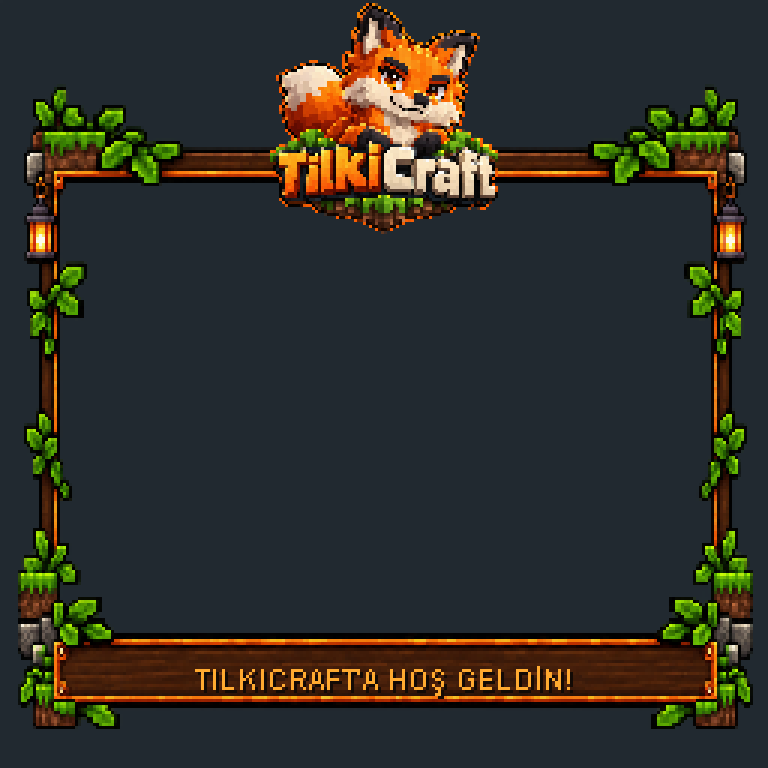
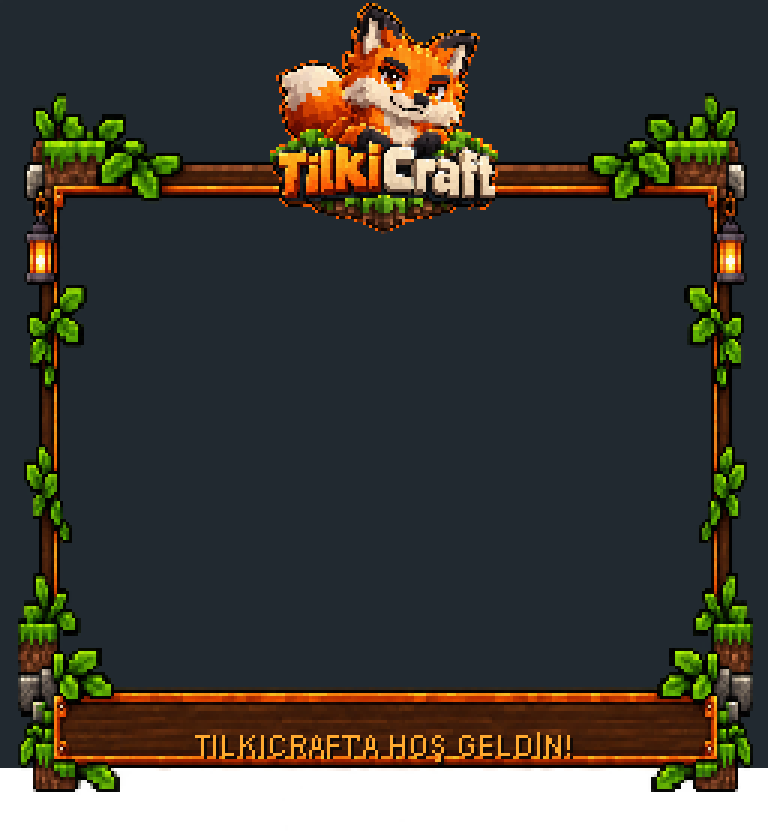
Scale ESC and TAB interface frames

diff --git a/tools/BuildTabFrame.java b/tools/BuildTabFrame.java
@@ -1,0 +1,84 @@
+import com.google.gson.*;
+import java.awt.*;
+import java.awt.image.BufferedImage;
+import java.nio.file.*;
+import java.security.MessageDigest;
+import java.util.*;
+import java.util.zip.*;
+import javax.imageio.ImageIO;
+
+/** Builds sparse, player-count-aware TAB frames from the ESC artwork. */
+class BuildTabFrame {
+    static final Path ROOT=Path.of("resourcepack");
+    static final Path TEX=ROOT.resolve("assets/tilkiinterface/textures/font/tab_frame");
+    static final JsonArray PROVIDERS=new JsonArray();
+    static final Properties LAYOUTS=new Properties();
+    static int next=0xf1000, textureIndex=0;
+
+    static void patch(Graphics2D g,BufferedImage source,int dx1,int dy1,int dx2,int dy2,int sx1,int sy1,int sx2,int sy2) {
+        g.drawImage(source,dx1,dy1,dx2,dy2,sx1,sy1,sx2,sy2,null);
+    }
+    static BufferedImage compose(BufferedImage source,BufferedImage logo,int width,int rows) {
+        int height=76+rows*9, smx=190, smy=220, dmx=28, dmy=38;
+        BufferedImage out=new BufferedImage(width,height,BufferedImage.TYPE_INT_ARGB);
+        Graphics2D g=out.createGraphics();
+        g.setRenderingHint(RenderingHints.KEY_INTERPOLATION,RenderingHints.VALUE_INTERPOLATION_NEAREST_NEIGHBOR);
+        int sw=source.getWidth(),sh=source.getHeight();
+        patch(g,source,0,0,dmx,dmy,0,0,smx,smy);
+        patch(g,source,dmx,0,width-dmx,dmy,smx,0,sw-smx,smy);
+        patch(g,source,width-dmx,0,width,dmy,sw-smx,0,sw,smy);
+        patch(g,source,0,dmy,dmx,height-dmy,0,smy,smx,sh-smy);
+        patch(g,source,width-dmx,dmy,width,height-dmy,sw-smx,smy,sw,sh-smy);
+        patch(g,source,0,height-dmy,dmx,height,0,sh-smy,smx,sh);
+        patch(g,source,dmx,height-dmy,width-dmx,height,smx,sh-smy,sw-smx,sh);
+        patch(g,source,width-dmx,height-dmy,width,height,sw-smx,sh-smy,sw,sh);
+        g.setComposite(AlphaComposite.Clear);g.fillRect(dmx,dmy,width-dmx*2,height-dmy*2);g.setComposite(AlphaComposite.SrcOver);
+        g.drawImage(logo,(width-58)/2,-2,58,58,null);
+        g.dispose();
+        // A compact pixel palette keeps the single resource-pack download small.
+        for(int y=0;y<height;y++)for(int x=0;x<width;x++) {
+            int pixel=out.getRGB(x,y),a=pixel>>>24;
+            if(a<32)out.setRGB(x,y,0);
+            else {int r=(pixel>>16)&255,green=(pixel>>8)&255,b=pixel&255;out.setRGB(x,y,0xff000000|((r>>4)<<20)|((green>>4)<<12)|((b>>4)<<4));}
+        }
+        return out;
+    }
+    static String addLayout(BufferedImage image,String key) throws Exception {
+        StringBuilder text=new StringBuilder();
+        for(int x=0;x<image.getWidth();x+=256) {
+            int width=Math.min(256,image.getWidth()-x);
+            BufferedImage tile=image.getSubimage(x,0,width,image.getHeight());
+            BufferedImage copy=new BufferedImage(width,image.getHeight(),BufferedImage.TYPE_INT_ARGB);
+            copy.getGraphics().drawImage(tile,0,0,null);copy.setRGB(width-1,0,0x01ffffff);
+            String file="tab_frame/frame_"+(textureIndex++)+".png";ImageIO.write(copy,"png",ROOT.resolve("assets/tilkiinterface/textures/font").resolve(file).toFile());
+            String glyph=new String(Character.toChars(next++));
+            JsonObject provider=new JsonObject();provider.addProperty("type","bitmap");provider.addProperty("file","tilkiinterface:font/"+file);
+            provider.addProperty("height",copy.getHeight());provider.addProperty("ascent",52);
+            JsonArray chars=new JsonArray();chars.add(glyph);provider.add("chars",chars);PROVIDERS.add(provider);
+            text.append(glyph).append('\uEA08');
+        }
+        LAYOUTS.setProperty(key,text.toString());return text.toString();
+    }
+    public static void main(String[] args) throws Exception {
+        if(args.length!=2)throw new IllegalArgumentException("Frame source and TilkiCraft logo PNG required");
+        BufferedImage source=ImageIO.read(Path.of(args[0]).toFile()),logo=ImageIO.read(Path.of(args[1]).toFile());
+        if(source==null||logo==null)throw new IllegalArgumentException("Invalid PNG");Files.createDirectories(TEX);
+        try(var old=Files.list(TEX)){for(Path file:old.toList())Files.delete(file);}
+        for(int players=1;players<=80;players++) {
+            int columns=(players+19)/20,rows=(players+columns-1)/columns,width=128+columns*128;
+            String key=columns+"."+rows;if(!LAYOUTS.containsKey(key))addLayout(compose(source,logo,width,rows),key);
+        }
+        Path definition=ROOT.resolve("assets/tilkiinterface/font/ui.json");JsonObject font=JsonParser.parseString(Files.readString(definition)).getAsJsonObject();JsonArray kept=new JsonArray();
+        for(JsonElement element:font.getAsJsonArray("providers")) {
+            JsonObject provider=element.getAsJsonObject();String file=provider.has("file")?provider.get("file").getAsString():"";
+            if(!file.contains("/tab_frame/"))kept.add(provider);
+        }
+        kept.addAll(PROVIDERS);font.add("providers",kept);Files.writeString(definition,font.toString());
+        try(var output=Files.newOutputStream(Path.of("src/main/resources/tab-frame-layouts.properties"))){LAYOUTS.store(output,"TAB frame layouts by columns and rows");}
+        Path zip=Path.of("dist/TilkiInterface-ResourcePack.zip");
+        try(var out=new ZipOutputStream(Files.newOutputStream(zip));var files=Files.walk(ROOT)){for(Path file:files.filter(Files::isRegularFile).sorted().toList()){ZipEntry entry=new ZipEntry(ROOT.relativize(file).toString().replace('\\','/'));entry.setTime(0);out.putNextEntry(entry);Files.copy(file,out);out.closeEntry();}}
+        String hash=HexFormat.of().formatHex(MessageDigest.getInstance("SHA-1").digest(Files.readAllBytes(zip)));Files.writeString(Path.of("dist/resourcepack-sha1.txt"),hash+"\n");
+        BufferedImage preview=compose(source,logo,384,12);ImageIO.write(preview,"png",Path.of("art/tab-frame-preview.png").toFile());
+        System.out.println("TAB layouts: "+LAYOUTS.size()+"; textures: "+textureIndex+"; SHA1: "+hash+"; "+Files.size(zip)+" bytes");
+    }
+}

diff --git a/tools/BuildEscFrame.java b/tools/BuildEscFrame.java
@@ -11,12 +11,14 @@ import javax.imageio.ImageIO;
 class BuildEscFrame {
     static final Path ROOT = Path.of("resourcepack");
     static final String GLYPH = "\uEA03";
+    static final String BOTTOM_GLYPH = "\uEA06";
+    static final String REWIND_GLYPH = "\uEA0A";
 
     static BufferedImage frame(Path artwork, Path logoPath) throws Exception {
         BufferedImage source = ImageIO.read(artwork.toFile());
         BufferedImage logo = ImageIO.read(logoPath.toFile());
         if (source == null || logo == null) throw new IllegalArgumentException("Invalid frame or logo PNG");
-        BufferedImage result = new BufferedImage(256, 256, BufferedImage.TYPE_INT_ARGB);
+        BufferedImage result = new BufferedImage(256, 278, BufferedImage.TYPE_INT_ARGB);
         // Keep a 212-pixel clear center for the native 204-pixel-wide pause buttons.
         // Compress only the decorative side margins of the generated square artwork.
         int left = source.getWidth() * 14 / 100;
@@ -39,8 +41,8 @@ class BuildEscFrame {
         String welcome = "TILKICRAFT'A HOŞ GELDİN!";
         FontMetrics metrics = g.getFontMetrics();
         int tx = (256 - metrics.stringWidth(welcome)) / 2;
-        g.setColor(new Color(19, 10, 5));g.drawString(welcome, tx+1, 231);
-        g.setColor(new Color(255, 170, 48));g.drawString(welcome, tx, 230);
+        g.setColor(new Color(19, 10, 5));g.drawString(welcome, tx+1, 253);
+        g.setColor(new Color(255, 170, 48));g.drawString(welcome, tx, 252);
         g.dispose();
         // Force full-cell glyph width without adding visible side pixels.
         result.setRGB(0, 0, 0x01ffffff);
@@ -51,15 +53,21 @@ class BuildEscFrame {
     public static void main(String[] args) throws Exception {
         if (args.length != 2) throw new IllegalArgumentException("Frame source and TilkiCraft logo PNG required");
         Path texture = ROOT.resolve("assets/tilkiinterface/textures/font/esc_frame.png");
+        Path bottomTexture = ROOT.resolve("assets/tilkiinterface/textures/font/esc_frame_bottom.png");
         Files.createDirectories(texture.getParent());
         BufferedImage image = frame(Path.of(args[0]), Path.of(args[1]));
-        ImageIO.write(image, "png", texture.toFile());
+        BufferedImage top=new BufferedImage(256,256,BufferedImage.TYPE_INT_ARGB),bottom=new BufferedImage(256,22,BufferedImage.TYPE_INT_ARGB);
+        Graphics2D topGraphics=top.createGraphics();topGraphics.drawImage(image,0,0,null);topGraphics.dispose();
+        Graphics2D bottomGraphics=bottom.createGraphics();bottomGraphics.drawImage(image,0,0,256,22,0,256,256,278,null);bottomGraphics.dispose();
+        top.setRGB(255,0,0x01ffffff);bottom.setRGB(255,0,0x01ffffff);
+        ImageIO.write(top, "png", texture.toFile());ImageIO.write(bottom,"png",bottomTexture.toFile());
         Path definition = ROOT.resolve("assets/tilkiinterface/font/ui.json");
         JsonObject font = JsonParser.parseString(Files.readString(definition)).getAsJsonObject();
         JsonArray providers = new JsonArray();
         for (JsonElement entry : font.getAsJsonArray("providers")) {
             JsonObject provider = entry.getAsJsonObject();
-            if (provider.has("file") && provider.get("file").getAsString().equals("tilkiinterface:font/esc_frame.png")) continue;
+            if (provider.has("file") && provider.get("file").getAsString().contains("esc_frame")) continue;
+            if(provider.get("type").getAsString().equals("space") && provider.getAsJsonObject("advances").has(REWIND_GLYPH))provider.getAsJsonObject("advances").remove(REWIND_GLYPH);
             providers.add(entry);
         }
         JsonObject frameProvider = new JsonObject();
@@ -69,12 +77,15 @@ class BuildEscFrame {
         frameProvider.addProperty("ascent", 44);
         JsonArray chars = new JsonArray(); chars.add(GLYPH); frameProvider.add("chars", chars);
         providers.add(frameProvider);
+        JsonObject bottomProvider=new JsonObject();bottomProvider.addProperty("type","bitmap");bottomProvider.addProperty("file","tilkiinterface:font/esc_frame_bottom.png");bottomProvider.addProperty("height",22);bottomProvider.addProperty("ascent",-212);
+        JsonArray bottomChars=new JsonArray();bottomChars.add(BOTTOM_GLYPH);bottomProvider.add("chars",bottomChars);providers.add(bottomProvider);
+        JsonObject rewindProvider=new JsonObject();rewindProvider.addProperty("type","space");JsonObject advances=new JsonObject();advances.addProperty(REWIND_GLYPH,-257);rewindProvider.add("advances",advances);providers.add(rewindProvider);
         font.add("providers", providers);
         Files.writeString(definition, font.toString());
         for (String lang : new String[]{"tr_tr", "en_us", "en_gb"}) {
             Path path = ROOT.resolve("assets/minecraft/lang/"+lang+".json");
             JsonObject translation = JsonParser.parseString(Files.readString(path)).getAsJsonObject();
-            translation.addProperty("menu.game", GLYPH);
+            translation.addProperty("menu.game", GLYPH+REWIND_GLYPH+BOTTOM_GLYPH);
             Files.writeString(path, translation.toString());
         }
         Path zip = Path.of("dist/TilkiInterface-ResourcePack.zip");
@@ -87,10 +98,10 @@ class BuildEscFrame {
         }
         String hash = HexFormat.of().formatHex(MessageDigest.getInstance("SHA-1").digest(Files.readAllBytes(zip)));
         Files.writeString(Path.of("dist/resourcepack-sha1.txt"), hash+"\n");
-        BufferedImage preview = new BufferedImage(768, 768, BufferedImage.TYPE_INT_ARGB);
+        BufferedImage preview = new BufferedImage(768, 834, BufferedImage.TYPE_INT_ARGB);
         Graphics2D g = preview.createGraphics();
         g.setColor(new Color(33, 41, 48)); g.fillRect(0, 0, 768, 768);
-        g.drawImage(image, 0, 0, 768, 768, null);
+        g.drawImage(image, 0, 0, 768, 834, null);
         g.dispose();
         ImageIO.write(preview, "png", Path.of("art/esc-frame-preview.png").toFile());
         System.out.println("ESC frame pack SHA1: "+hash+"; "+Files.size(zip)+" bytes");

diff --git a/src/main/java/com/tilkicraft/ui/TilkiInterface.java b/src/main/java/com/tilkicraft/ui/TilkiInterface.java
@@ -20,6 +20,7 @@ public final class TilkiInterface extends JavaPlugin implements Listener, Comman
     private static final DateTimeFormatter DATE = DateTimeFormatter.ofPattern("dd/MM/yy HH:mm").withZone(ZoneId.of("Europe/Istanbul"));
     private final Map<UUID, Panel> panels = new HashMap<>();
     private final Set<UUID> ready = new HashSet<>(), hidden = new HashSet<>();
+    private final Properties tabFrameLayouts = new Properties();
     private Object authApi, economy, chat;
     private Method auth, unrestricted, placeholder, balance, rankPrefix, primaryGroup;
     private String url;
@@ -64,6 +65,10 @@ public final class TilkiInterface extends JavaPlugin implements Listener, Comman
     @Override public void onEnable() {
         migrateLegacyConfig();
         saveDefaultConfig();
+        try(var input=getResource("tab-frame-layouts.properties")) {
+            if(input==null)throw new IOException("missing resource");
+            tabFrameLayouts.load(input);
+        } catch(IOException ex) { getLogger().severe("TAB frame layouts could not be loaded: "+ex.getMessage()); }
         bindHooks();
         Bukkit.getScheduler().runTask(this,this::bindHooks);
         readPack();
@@ -133,6 +138,13 @@ public final class TilkiInterface extends JavaPlugin implements Listener, Comman
             getConfig().set("sidebar.frame",null);
             getConfig().set("layout.logos-only-v6",true);saveConfig();
         }
+        if(!getConfig().getBoolean("layout.tab-frame-v7",false)) {
+            getConfig().set("layout.previous-tab-header-v7",getConfig().getStringList("tab.header"));
+            getConfig().set("layout.previous-tab-footer-v7",getConfig().getStringList("tab.footer"));
+            getConfig().set("tab.header",Arrays.asList(FrameGeometry.HEADER.split("\n",-1)));
+            getConfig().set("tab.footer",Arrays.asList(FrameGeometry.FOOTER.split("\n",-1)));
+            getConfig().set("layout.tab-frame-v7",true);saveConfig();
+        }
         if (!getConfig().getBoolean("layout.compact-v2",false)) {
             List<String> lines=new ArrayList<>(getConfig().getStringList("sidebar.lines"));
             lines.removeIf(line->line.contains("{kills}") || line.contains("{deaths}"));
@@ -146,9 +158,9 @@ public final class TilkiInterface extends JavaPlugin implements Listener, Comman
             getConfig().set("sidebar.lines",lines); getConfig().set("layout.compact-v2",true); saveConfig();
         }
         String previousUrl=getConfig().getString("pack.url","");
-        if (previousUrl.startsWith("https://github.com/ardaacala/TilkiInterface/releases/download/") && !previousUrl.contains("/v1.4.4/")) {
-            getConfig().set("pack.url","https://github.com/ardaacala/TilkiInterface/releases/download/v1.4.4/TilkiInterface-ResourcePack.zip");
-            getConfig().set("pack.sha1","11d1c862803c42b3b50e4b3df10516ce099cd9e4"); saveConfig();
+        if (previousUrl.startsWith("https://github.com/ardaacala/TilkiInterface/releases/download/") && !previousUrl.contains("/v1.4.5/")) {
+            getConfig().set("pack.url","https://github.com/ardaacala/TilkiInterface/releases/download/v1.4.5/TilkiInterface-ResourcePack.zip");
+            getConfig().set("pack.sha1","95ae8c559b1d9314ae30102c1036a5b3de1d24ee"); saveConfig();
         }
         url=getConfig().getString("pack.url","").trim(); hash=null;
         if (url.isEmpty()) return;
@@ -234,7 +246,9 @@ public final class TilkiInterface extends JavaPlugin implements Listener, Comman
             }
             Map<String,String> values=values(player);
             if (getConfig().getBoolean("tab.enabled",true)) {
-                values.put("tab-logo",ready.contains(id)?"§f\uEA02":"");
+                int visible=(int)Bukkit.getOnlinePlayers().stream().filter(player::canSee).count();
+                int columns=FrameGeometry.columns(visible),rows=FrameGeometry.rows(visible);
+                values.put("tab-frame",ready.contains(id)?"§f"+tabFrameLayouts.getProperty(columns+"."+rows,""):"");
                 String header=String.join("\n",getConfig().getStringList("tab.header"));
                 String footer=String.join("\n",getConfig().getStringList("tab.footer"));
                 if (header.isEmpty()) header=FrameGeometry.HEADER;

diff --git a/tools/BuildOptionsTheme.java b/tools/BuildOptionsTheme.java
@@ -1,0 +1,33 @@
+import java.awt.*;
+import java.awt.image.BufferedImage;
+import java.nio.file.*;
+import javax.imageio.ImageIO;
+
+/** Applies the same wood/orange theme to controls used by the options screens. */
+class BuildOptionsTheme {
+    static final Path ROOT=Path.of("resourcepack/assets/minecraft/textures/gui/sprites/widget");
+    static BufferedImage panel(int width,int height,boolean highlighted,boolean disabled) {
+        BufferedImage image=new BufferedImage(width,height,BufferedImage.TYPE_INT_ARGB);Graphics2D g=image.createGraphics();
+        g.setColor(new Color(15,9,5));g.fillRect(0,0,width,height);
+        g.setColor(disabled?new Color(93,72,55):highlighted?new Color(255,178,55):new Color(203,91,18));g.fillRect(1,1,width-2,height-2);
+        g.setColor(disabled?new Color(45,37,31):new Color(45,24,13));g.fillRect(3,3,width-6,height-6);
+        g.setColor(new Color(104,51,20));for(int y=5;y<height-4;y+=4)g.drawLine(5,y,width-6,y);
+        g.setColor(new Color(255,202,88,highlighted?220:120));g.drawLine(4,3,width-5,3);g.dispose();return image;
+    }
+    static BufferedImage handle(boolean highlighted) {
+        BufferedImage image=panel(8,20,highlighted,false);Graphics2D g=image.createGraphics();g.setColor(new Color(255,197,70));g.fillRect(3,5,2,10);g.dispose();return image;
+    }
+    static BufferedImage checkbox(boolean selected,boolean highlighted) {
+        BufferedImage image=panel(20,20,highlighted,false);if(selected){Graphics2D g=image.createGraphics();g.setStroke(new BasicStroke(3));g.setColor(new Color(255,184,50));g.drawLine(5,10,9,14);g.drawLine(9,14,16,5);g.dispose();}return image;
+    }
+    static void write(String name,BufferedImage image)throws Exception{ImageIO.write(image,"png",ROOT.resolve(name+".png").toFile());}
+    static void metadata(String name,int width,int height,int border)throws Exception{Files.writeString(ROOT.resolve(name+".png.mcmeta"),"{\"gui\":{\"scaling\":{\"type\":\"nine_slice\",\"width\":"+width+",\"height\":"+height+",\"border\":"+border+"}}}\n");}
+    public static void main(String[] args)throws Exception{
+        Files.createDirectories(ROOT);
+        write("slider",panel(200,20,false,false));write("slider_highlighted",panel(200,20,true,false));metadata("slider",200,20,1);metadata("slider_highlighted",200,20,1);
+        write("slider_handle",handle(false));write("slider_handle_highlighted",handle(true));metadata("slider_handle",8,20,2);metadata("slider_handle_highlighted",8,20,2);
+        write("checkbox",checkbox(false,false));write("checkbox_highlighted",checkbox(false,true));write("checkbox_selected",checkbox(true,false));write("checkbox_selected_highlighted",checkbox(true,true));
+        write("text_field",panel(200,20,false,false));write("text_field_highlighted",panel(200,20,true,false));metadata("text_field",200,20,2);metadata("text_field_highlighted",200,20,2);
+        System.out.println("Themed sliders, handles, checkboxes and text fields.");
+    }
+}

diff --git a/src/test/java/com/tilkicraft/ui/FrameGeometryTest.java b/src/test/java/com/tilkicraft/ui/FrameGeometryTest.java
@@ -3,14 +3,14 @@ import org.junit.jupiter.api.Test;
 import static org.junit.jupiter.api.Assertions.*;
 
 class FrameGeometryTest {
-    @Test void tabLogoHasItsOwnSpaceAboveEveryLabel() {
+    @Test void tabFrameHasItsOwnSpaceAboveEveryLabel() {
         String header=FrameGeometry.HEADER;
-        assertFalse(header.contains("tab-frame"));
-        assertFalse(header.contains("tab-bottom"));
-        int logoLine=header.substring(0,header.indexOf("{tab-logo}")).split("\n",-1).length-1;
+        assertTrue(header.startsWith("{tab-frame}"));
         int titleLine=header.substring(0,header.indexOf("TILKICRAFT")).split("\n",-1).length-1;
-        assertTrue(logoLine*FrameGeometry.TAB_LINE_HEIGHT>=FrameGeometry.TAB_LOGO_HEIGHT);
-        assertTrue(titleLine>logoLine);
-        assertFalse(FrameGeometry.FOOTER.contains("tab-frame"));
+        assertTrue(titleLine*FrameGeometry.TAB_LINE_HEIGHT>=FrameGeometry.TAB_LOGO_HEIGHT);
+        assertTrue(FrameGeometry.FOOTER.isEmpty());
+        assertEquals(1,FrameGeometry.columns(20));assertEquals(20,FrameGeometry.rows(20));
+        assertEquals(2,FrameGeometry.columns(21));assertEquals(11,FrameGeometry.rows(21));
+        assertEquals(4,FrameGeometry.columns(80));assertEquals(20,FrameGeometry.rows(80));
     }
 }

diff --git a/src/main/java/com/tilkicraft/ui/FrameGeometry.java b/src/main/java/com/tilkicraft/ui/FrameGeometry.java
@@ -1,9 +1,11 @@
 package com.tilkicraft.ui;
 
-/** Header spacing reserves a separate line above every TAB label for the logo. */
+/** Header spacing leaves the logo clear while the frame extends around player rows. */
 final class FrameGeometry {
     static final int TAB_LOGO_HEIGHT=52, TAB_LINE_HEIGHT=9;
-    static final String HEADER="\n\n\n\n\n\n{tab-logo}\n&6&lTILKICRAFT &8┃ &f{online}/{max}\n";
-    static final String FOOTER="\n&7{player} &8┃ &f{ping} ms";
+    static final String HEADER="{tab-frame}\n\n\n\n\n\n&6&lTILKICRAFT &8┃ &f{online}/{max}";
+    static final String FOOTER="";
+    static int columns(int players) { return Math.max(1,Math.min(4,(players+19)/20)); }
+    static int rows(int players) { int bounded=Math.max(1,Math.min(80,players)),columns=columns(bounded);return (bounded+columns-1)/columns; }
     private FrameGeometry() {}
 }

diff --git a/README.md b/README.md
@@ -4,12 +4,12 @@ TilkiCraft logosu ve turuncu/koyu kahve temasıyla Spigot **1.21.4**, Java **21*
 
 ## Kurulum
 
-1. Sunucuyu durdur, eski `TilkiStatsHUD-*.jar` ve `TilkiInterface-*.jar` dosyalarını kaldır, `TilkiInterface-1.4.4.jar` dosyasını `plugins` klasörüne koy ve yeniden başlat. Eski `plugins/TilkiStatsHUD/config.yml` dosyası ilk açılışta `plugins/TilkiInterface/config.yml` yoluna kopyalanır. Resmî kaynak paketi bağlantısı otomatik güncellenir.
+1. Sunucuyu durdur, eski `TilkiStatsHUD-*.jar` ve `TilkiInterface-*.jar` dosyalarını kaldır, `TilkiInterface-1.4.5.jar` dosyasını `plugins` klasörüne koy ve yeniden başlat. Eski `plugins/TilkiStatsHUD/config.yml` dosyası ilk açılışta `plugins/TilkiInterface/config.yml` yoluna kopyalanır. Resmî kaynak paketi bağlantısı otomatik güncellenir.
 2. Oyuncu kaynak paketini kabul eder. ZIP GitHub'dan otomatik indirilir; sunucu klasörüne ZIP koymak gerekmez.
 3. AuthMe varsa panel yalnızca başarılı girişten sonra açılır. AuthMe yoksa normal açılır.
 4. `/tilkiui` veya `/istatistik`: paneli/üst şeridi aç-kapat. `/tilkiui reload`: yönetici ayar yenileme.
 
-Paket: https://github.com/ardaacala/TilkiInterface/releases/tag/v1.4.4
+Paket: https://github.com/ardaacala/TilkiInterface/releases/tag/v1.4.5
 
 ## Gösterilen bilgiler
 
@@ -73,3 +73,9 @@ Paket yeniden üretimi: Gson classpath'i ile `tools/BuildLogoAssets.java art/hud
 ESC başlığında TilkiCraft logosunu taşıyan ahşap, yapraklı ve fenerli çerçeve bulunur. Görsel `art/esc-frame-source.png` kaynağından `tools/BuildEscFrame.java` ile 256×256 bitmap glife dönüştürülür. [Önizleme](art/esc-frame-preview.png) tasarım kontrolüdür; oyun ekran görüntüsü değildir. HUD ve TAB çerçevesiz kalır. Bu çalışma yalnızca 1.21.4 istemcisinin normal oyun içi duraklatma menüsünü hedefler. Çok küçük GUI alanlarında alt süslerin kırpılması mümkündür.
 
 Paket yeniden üretiminde önce `BuildInterfacePack`, sonra `BuildLogoAssets`, son olarak `BuildEscFrame art/esc-frame-source.png ../CombatGuns/tilkicraft_logo.png` çalıştırılır. Son adım ESC görselini, dil eşlemelerini, ZIP dosyasını ve SHA-1 değerini yeniler.
+
+## 1.4.5 — Ölçekli ESC ve TAB çerçeveleri
+
+ESC çerçevesinin alt kirişi bütün duraklatma menüsünü, “Bağlantıyı Kes” düğmesi dahil, çevreleyecek biçimde uzatıldı. 256 piksel atlas sınırı için alt bölüm ayrı glif olarak çizilir; iki parça Minecraft GUI ölçeğiyle birlikte büyüyüp küçülür. Seçenek ekranlarında düğmelerin yanında kaydırıcılar, onay kutuları ve metin alanları da ahşap/turuncu temayı kullanır.
+
+TAB oyuncu listesi 1–80 görünür oyuncu için 1–4 sütun ve satır sayısına göre 42 farklı geometriden uygun olanı seçer. TilkiCraft logosu üst kirişe bağlıdır; orta alan şeffaftır. Paket üretim zincirinin son adımları `BuildOptionsTheme`, `BuildEscFrame` ve `BuildTabFrame` araçlarıdır. [ESC önizlemesi](art/esc-frame-preview.png) ile [TAB önizlemesi](art/tab-frame-preview.png) tasarım kontrolüdür.
